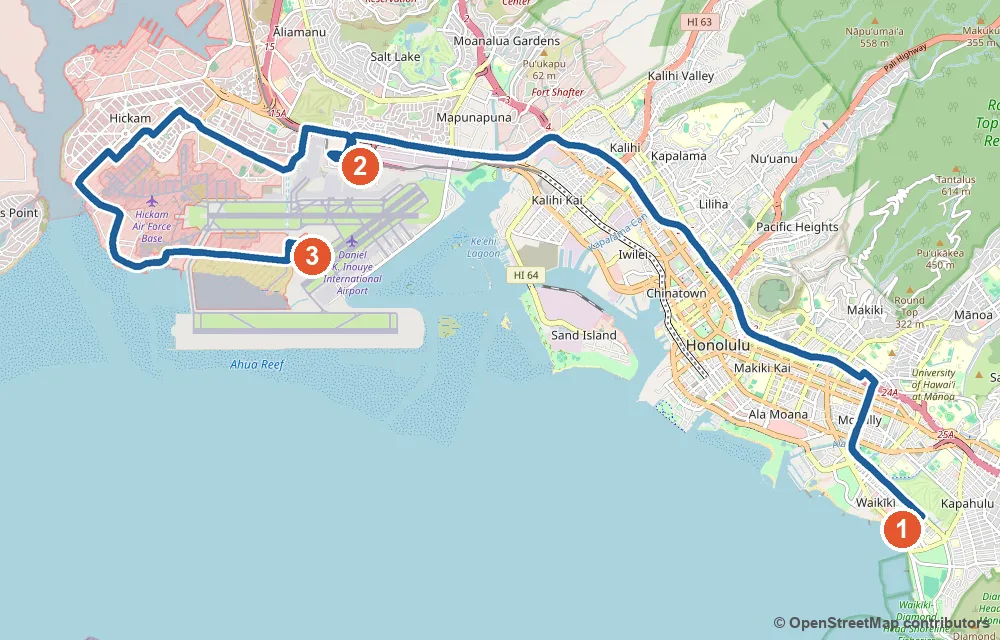
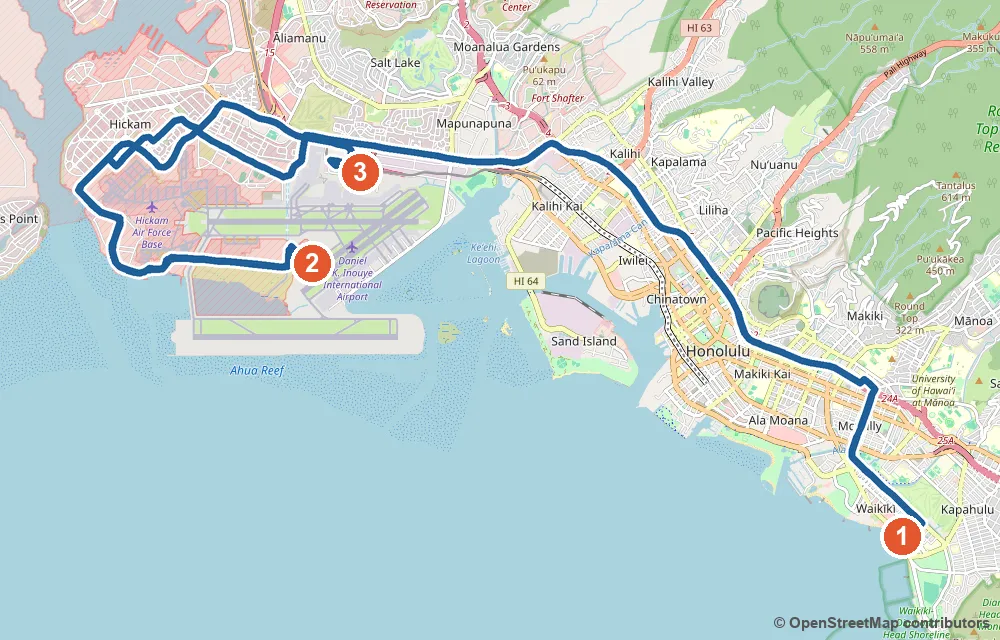
11/11 08:30 출발 · 09:00 공항 · 작은형 렌트카 반납

diff --git a/index.html b/index.html
@@ -12,7 +12,7 @@
 // GitHub Pages 는 HTML 을 10분 캐시한다(헤더는 못 바꿈) → 열 때마다 version.json 을 캐시 없이 확인해
 // 새 버전이면 주소에 ?v=버전 을 붙여 한 번만 새로 불러온다 (같은 버전으로 이미 시도했으면 멈춤)
 (function () {
-  var BUILD = 'f8a1b704cf';
+  var BUILD = 'd4a4f7217a';
   try {
     fetch('version.json?t=' + Date.now(), { cache: 'no-store' })
       .then(function (r) { return r.ok ? r.json() : null; })
@@ -343,18 +343,18 @@ footer { max-width: 1100px; margin: 0 auto; padding: 0 16px 48px; color: var(--m
 <div class="todo-grid"><div class="todo"><span class="when">예약 ✅ <strong>완료 (11/8)</strong></span><h4>🥾 다이아몬드헤드 <strong>재예약</strong></h4><div class="visit">📅 <span>가는 날</span> <strong>11/9 (월) 12:00 입장 · 차량+3명 (아빠·작은형·나)</strong> — 비거주자 1인 $5 + 차량 $10 · QR 캡처</div><div class="where"><a href="https://gostateparks.hawaii.gov/diamondhead" target="_blank" rel="noopener">gostateparks.hawaii.gov/diamondhead</a></div><div class="memo">주차 2시간 (14시 전 출차) · 30분 넘게 늦으면 입장 불가</div></div><div class="todo"><span class="when">예약 ✅ <strong>다녀옴 (11/7)</strong></span><h4>⛳ <strong>골프 (큰형·나)</strong></h4><div class="visit">📅 <span>가는 날</span> 12:34~17:30 18홀 완주 — 복귀는 작은형 픽업</div><div class="where"><a href="https://golfnow.com" target="_blank" rel="noopener">golfnow.com</a></div><div class="memo">렌탈 2세트는 <strong>메리어트 1층 샵</strong>에서 아침 수령 (오픈 시간·요금·반납 조건 확인) · 복장 ✅ (폴로는 큰형 것 · 청바지 ❌)</div></div><div class="todo"><span class="when">예약 ✅ <strong>예약 완료 (작은형)</strong></span><h4><strong>USS Arizona</strong> (진주만)</h4><div class="visit">📅 <span>가는 날</span> <strong>11/5 (목) 10:45 투어</strong> · 5명</div><div class="where"><a href="https://recreation.gov" target="_blank" rel="noopener">recreation.gov</a></div><div class="memo"><strong>09:45까지 방문자센터 도착</strong> (공식: 1시간 전) · 극장 체크인 10:45의 10~15분 전 · 가방 반입 금지 (지갑·폰·물병만) · 주차 $7</div></div><div class="todo"><span class="when">예약 지금</span><h4>저녁 예약 (5명)</h4><div class="visit">📅 <span>가는 날</span> <del>11/4 DECK.</del> (❌ 취소 — 마루가메 우동으로) · <del>11/6 Hau Tree</del> (❌ 48시간 내 취소·변경 수수료 $15/인 → 워크인으로) · 🍚 <strong>Suntory</strong> ✅ <strong>다녀옴 (11/7 — 19:30 입장 · 단품 와슈규 샤브 $60/인)</strong></div><div class="where">전화·OpenTable</div><div class="memo">✅ 11/5 Arancino 다녀옴 (맛있었어요) · 11/6 🍺 <strong>Yard House</strong>(19:00 도착·이름 올리기)·11/9 🐟 <strong>Nico's Pier 38</strong>은 <strong>예약 없이</strong> 바로 가요</div></div><div class="todo"><span class="when">예약 ❌ <strong>취소 (11/7 밤)</strong></span><h4>아침 예약 (5명)</h4><div class="visit">📅 <span>가는 날</span> 다들 아침은 <strong>콘도에서</strong> — Duke's 11/8 · Heavenly 11/10 예약 안 함</div><div class="where">—</div><div class="memo">아침거리는 11/8 귀갓길 <strong>H Mart 카카아코</strong> 장보기 · 나가고 싶은 날 도보 대안: Lulu's·Barefoot·Kai Coffee</div></div><div class="todo"><span class="when">예약 ✅ <strong>예약 완료 (11/8 · OpenTable)</strong></span><h4>🌅 SKY Waikiki (4명)</h4><div class="visit">📅 <span>가는 날</span> <strong>11/9 (월) 17:00 · 4명</strong> (아빠·엄마·큰형·나) — 19층 옥상 노을 저녁 · 요청사항에 "노을 잘 보이는 바깥쪽 자리, 없으면 연락" 남김</div><div class="where">OpenTable · ☎ 808-900-4240</div><div class="memo">확인 메일 저장</div></div><div class="todo"><span class="when">예약 ✅ <strong>PCC 결제 완료 (11/9)</strong></span><h4>🔥 불쇼 (5명)</h4><div class="visit">📅 <span>가는 날</span> <strong>11/10 PCC <code>Gateway Buffet Package</code>로 잠정</strong> (마을 + 뷔페 + HĀ 실버석 · <strong>$138.95/인</strong> (무료 저녁 행사가 · 정가 $157.95 · <strong>polynesia.com/free-dinner</strong> 에서 예약) · 5명 약 $727) — 월요일 Ka Moana는 뺌</div><div class="where"><a href="https://polynesia.com/free-dinner" target="_blank" rel="noopener">polynesia.com/free-dinner</a></div><div class="memo">무료 취소 <strong>11/9 17시 HST까지</strong> → 아침에 정하고 바로 예약</div></div><div class="todo"><span class="when">예약 ✅ <strong>결제 완료 (11/9) — 확인 메일 확인</strong></span><h4>PCC 패키지 (5명)</h4><div class="visit">📅 <span>가는 날</span> <strong>11/10 (화)</strong> 12:15 도착 · <strong><code>Gateway Buffet Package</code> 잠정</strong> · 패키지 (성인 1인, 세금 별도): Super Ambassador $293.95 · Aliʻi Lūʻau $197.95 (그룹 가이드+루아우+골드석) · <strong>Gateway Buffet $157.95</strong> (자유 관람+뷔페+실버석) · Lūʻau &amp; HĀ $138.95 (마을 없음) · Islands + HĀ $123.95 (브론즈석·저녁 없음) · Islands만 $94.95 · 직접 조합은 3개 34%·2개 27% 할인 (예: 마을+루아우+실버 약 $175)</div><div class="where"><a href="https://pkg.polynesia.com" target="_blank" rel="noopener">pkg.polynesia.com</a></div><div class="memo"><strong>무료 취소 11/9 17:00 HST까지</strong> (공식 FAQ) · 이후·노쇼 환불 없음 · 체크인: 사진 신분증 + 결제 카드 + 확인 메일 · 일·수 휴무 · 왕복 버스 $28/인</div></div></div>
 
 </section><section class="sec flight"><div class="sec-head"><span class="sec-ic">✈</span><h2 id="항공-서울팀-3명-현지-시각">항공</h2><small>서울팀 3명 (현지 시각)</small></div>
-<div class="tickets"><div class="ticket"><div class="tk-top"><span>가는 편</span><b>KE053</b></div><div class="route"><div class="city"><small>11/4 (수)</small><b>20:50</b><span>ICN · 인천 T2</span></div><div class="plane">✈</div><div class="city r"><small>11/4 (수)</small><b>09:40</b><span>HNL · 호놀룰루</span></div></div><div class="tk-meta"><div><span>공항 도착 목표</span><b>17:50</b></div><div><span>체크인 마감</span><b>19:50</b></div><div><span>탑승 시작</span><b>20:15</b></div></div></div><div class="ticket"><div class="tk-top"><span>오는 편</span><b>KE054</b></div><div class="route"><div class="city"><small>11/11 (수)</small><b>12:05</b><span>HNL · 호놀룰루</span></div><div class="plane">✈</div><div class="city r"><small>11/12 (목)</small><b>17:35</b><span>ICN · 인천 T2</span></div></div><div class="tk-meta"><div><span>공항 도착 목표</span><b>08:20</b></div><div><span>체크인 마감</span><b>출발 1시간 전</b></div><div><span>탑승 시작</span><b>11:30</b></div></div></div></div>
+<div class="tickets"><div class="ticket"><div class="tk-top"><span>가는 편</span><b>KE053</b></div><div class="route"><div class="city"><small>11/4 (수)</small><b>20:50</b><span>ICN · 인천 T2</span></div><div class="plane">✈</div><div class="city r"><small>11/4 (수)</small><b>09:40</b><span>HNL · 호놀룰루</span></div></div><div class="tk-meta"><div><span>공항 도착 목표</span><b>17:50</b></div><div><span>체크인 마감</span><b>19:50</b></div><div><span>탑승 시작</span><b>20:15</b></div></div></div><div class="ticket"><div class="tk-top"><span>오는 편</span><b>KE054</b></div><div class="route"><div class="city"><small>11/11 (수)</small><b>12:05</b><span>HNL · 호놀룰루</span></div><div class="plane">✈</div><div class="city r"><small>11/12 (목)</small><b>17:35</b><span>ICN · 인천 T2</span></div></div><div class="tk-meta"><div><span>공항 도착 목표</span><b>09:00</b></div><div><span>체크인 마감</span><b>출발 1시간 전</b></div><div><span>탑승 시작</span><b>11:30</b></div></div></div></div>
 <ul>
 <li>탑승 시작 = 출발 35분 전 · 탑승구 마감 = 10분 전 · 체크인 마감 = 1시간 전 (대한항공 국제선)</li>
 <li>🛍 출국심사 후 바로 <strong>T2 서편 인도장</strong>에서 면세품 받기 (여권·탑승권, 저녁엔 줄 김 → 20~30분 여유)</li>
-<li>귀국일은 콘도 07:30 출발 → 08:00 렌트카 반납 (위치는 예약 확인서 · 공항 렌터카센터면 T2 길 건너) → 08:20 카운터</li>
+<li>귀국일은 콘도 08:30 출발 → 09:00 T2 출발층에서 가족 내리기 → 작은형 혼자 주유·렌트카 반납 (위치는 예약 확인서 · 공항 렌터카센터면 T2 길 건너) · 작은형은 비행이 더 늦어요</li>
 <li>✅ KE053은 11/3 대한항공 공지로 <strong>20:35 → 20:50</strong> 출발 · <strong>09:40</strong> 도착으로 변경 확정</li>
-<li>ℹ KE054는 <strong>11:40</strong> 출발로 나오기도 해요 — 귀국일 계획(08:20 카운터)은 11:40이어도 3시간 이상 여유</li>
+<li>ℹ KE054는 <strong>11:40</strong> 출발로 나오기도 해요 — 귀국일 계획(09:00 공항)은 11:40이어도 2시간 40분 여유 · 전날 대한항공 앱에서 출발 시각 확인</li>
 </ul>
 </section><section class="sec hotel"><div class="sec-head"><span class="sec-ic">🏨</span><h2 id="숙소-메리어트-3박-비치타워-콘도-4박-걸어서-3분">숙소</h2><small>메리어트 3박 · 비치타워 콘도 4박 (걸어서 3분)</small></div>
 <div class="tickets"><div class="hotel"><div class="tk-top"><span>11/4 (수) – 11/7 (토) · 3박 · 아고다</span></div><div class="ht-name">와이키키 비치 메리어트 리조트 &amp; 스파</div><div class="ht-times"><div><span>체크인</span><b>15:00</b><small>11/4 (수)</small></div><div><span>체크아웃</span><b>11:00</b><small>11/7 (토)</small></div></div><dl class="ht-facts"><dt>☎ 전화</dt><dd><ul class="ht-fac"><li>한국에서 <strong>001-1-808-922-6611</strong> (KT 001 · LG U+ 002 · SK 00700)</li><li>휴대폰은 <strong><a href="tel:+18089226611">+1 808 922 6611</a></strong> (누르면 바로 걸려요)</li><li>프런트 24시간 · 하와이는 한국보다 19시간 늦어요</li></ul></dd><dt>🛏 방</dt><dd><strong>객실 2개 예약 확정</strong> — 방 1: 시티뷰 퀸 1 또는 더블 2 (성인 2) · 방 2: 와이키키 시티뷰 킹 1 + 소파베드, 발코니 (성인 3) — <strong>침대는 킹 1 + 소파베드뿐</strong> (추가 침대·침대 2개 방 변경 안 됨, 11/3 확인)</dd><dt>🚿 욕실</dt><dd>객실마다 1개</dd><dt>🍳 조식</dt><dd><strong>방마다 성인 2명 포함</strong> (전화 확인 11/3) — 2번 방 세 번째 사람은 <strong>추가 요금</strong> · 2층 Kuhio Beach Grill 뷔페 (05:00–11:00)</dd><dt>🅿 주차</dt><dd><strong>호텔 셀프 주차</strong> $65/일 · 발렛 $80/일 (세금 별도 · 셀프 3박 약 $204) — 근처 반얀 주차장은 24시간 $50 (공사 중 요금 · 높이 183cm 제한)이라 하루 $15 정도 차이 · ⚠ 후기: 셀프 주차장이 좁고 자주 꽉 차서 발렛으로 돌린 일, SUV가 높아 못 들어가 발렛 쓴 일 있음 (2024~2026) · <strong>미리 예약 필요 없음</strong> (11/3 호텔 확인)</dd><dt>🏝 시설</dt><dd><ul class="ht-fac"><li>🏊 <strong>수영장 2개</strong> — 옥상 Queensbreak에 가족 풀 + 21세 이상 성인 풀, 온수 욕조 (07:00–22:00)</li><li>🍽 <strong>식당·바·카페 7곳</strong> — Kuhio Beach Grill (조식 뷔페 05–11, 2층) · Arancino di Mare (이탈리안 저녁 17–21) · Queensbreak 레스토랑·풀사이드 바 (옥상 11–23) · 스타벅스 2곳 · Island Vintage 셰이브아이스 — Sansei·DK Steakhouse는 2025.9 폐업</li><li>🛒 <strong>ABC 스토어</strong> (로비층 편의점)</li><li>🧺 <strong>셀프 세탁실</strong> (Paoakalani 타워 2층) — 세탁·건조 각 $6.50 (2026.5 투숙 후기), 카드 결제 · 드라이클리닝 서비스 별도</li><li>💆 Royal Kaila 스파 (09–18) · 피트니스 24시간</li><li>🌺 우쿨렐레·훌라·레이 만들기 수업 (리조트피 포함)</li><li>🎭 Paina Waikiki 루아우 디너쇼 (월·수·금·토·일, 별도 예약)</li><li>🗣 일본어 직원 있음 · 한국어 직원 없음 (11/3 전화 확인)</li></ul></dd></dl><ul class="ht-notes"><li>11/4 체크인 전·11/7 체크아웃 뒤 <strong>벨데스크 짐 보관</strong></li><li>리조트피 객실당 1박 $59 + 세금 (약 $70, 현장 결제 — Wi-Fi·비치체어 또는 부기보드·문화 수업 포함)</li><li>체크인은 예약자 본인 여권 + 실물 카드</li></ul></div><div class="hotel"><div class="tk-top"><span>11/7 (토) – 11/11 (수) · 4박</span></div><div class="ht-name">와이키키 비치 타워 콘도 (에어비앤비)</div><div class="ht-times"><div><span>체크인</span><b>15:00</b><small>11/7 (토)</small></div><div><span>체크아웃</span><b>11:00</b><small>11/11 (수)</small></div></div><dl class="ht-facts"><dt>☎ 전화</dt><dd><ul class="ht-fac"><li>관리 회사(캡틴 쿡 리조트)는 <strong>에어비앤비 앱 메시지</strong></li><li>관리자 전화번호는 11/5 15:00(하와이)부터 앱의 입실 안내에 나와요</li></ul></dd><dt>🛏 방</dt><dd><strong>침실 2개</strong> — 안방 킹 1 · 게스트룸 트윈 2 (요청 시 킹 1) · 거실 퀸 소파베드 · 최대 6명 · 실내 약 107㎡ + 오션뷰 발코니</dd><dt>🚿 욕실</dt><dd><strong>2개</strong> (안방 전용 1 + 공용 1)</dd><dt>🍳 조식</dt><dd>없음 — 주방 완비, 아침은 장봐서</dd><dt>🅿 주차</dt><dd><strong>발렛 1대 무료</strong> (차 높이 188cm까지, 셔틀 크기 밴 불가) · 차량 사전 등록 필요 없음 · 머무는 동안만 · 리조트피 없음</dd><dt>🏝 시설</dt><dd><ul class="ht-fac"><li>🧺 집 안 <strong>세탁기·건조기</strong> (무료)</li><li>🏊 건물 수영장·스파·피트니스</li><li>🍳 주방 완비</li></ul></dd></dl><ul class="ht-notes"><li>체크인·체크아웃 시각은 <strong>에어비앤비 예약·호스트 안내 기준</strong></li><li>도착 후 <strong>관리자에게 전화</strong>해서 체크인</li><li>매일 청소·수건 보충 없음</li><li>커피·조미료·식용유·지퍼백 없음</li></ul></div></div>
 </section><section class="sec overview"><div class="sec-head"><span class="sec-ic">🗓</span><h2 id="1-한눈에-보기">한눈에 보기</h2></div>
-<div class="ov-grid"><a class="ov c0" href="#114-수-도착-짐부터-호텔에-가볍게"><div class="ov-head"><b>11/4</b><em>수</em><span>도착</span></div><ul><li><i>🛍</i>월마트 / 돈키호테 (장보기)</li><li><i>🍳</i>기내</li><li><i>🍱</i>Highway Inn 카카아코</li><li><i>🍽</i>🌅 DECK. 일몰 (17:30)</li></ul></a><a class="ov c1" href="#115-목-진주만-와이켈레-아울렛"><div class="ov-head"><b>11/5</b><em>목</em><span>진주만</span></div><ul><li><i>🛍</i><strong>와이켈레 아울렛</strong></li><li><i>🍳</i>메리어트 조식</li><li><i>🍱</i>Restaurant 604</li><li><i>🍽</i>🍝 Arancino (호텔 1층)</li></ul></a><a class="ov c2" href="#116-금-동부-해안-카일루아-해안-먼저-저녁은-카일루아"><div class="ov-head"><b>11/6</b><em>금</em><span>동부 해안</span></div><ul><li><i>🥾</i><strong>마카푸우 등대</strong> · (선택, 아들) 라니카이 필박스</li><li><i>🛍</i><strong>카일루아</strong> 마노아 초콜릿·Whole Foods·타운</li><li><i>🍳</i>메리어트 조식</li><li><i>🍱</i>Kalapawai Café</li><li><i>🍽</i>🍺 <strong>Yard House</strong> (워크인 · 비치워크)</li></ul></a><a class="ov c3" href="#117-토-체크아웃-와이켈레-골프-큰형나-교회-작은형부모님-비치타워-체크인"><div class="ov-head"><b>11/7</b><em>토</em><span>이동일</span></div><ul><li><i>🥾</i>⛳ <strong>와이켈레 골프 12:34</strong> (큰형·나) · <del>다이아몬드헤드</del> ❌</li><li><i>🛍</i>⛪ 교회 10~14 (작은형·부모님) · 🧳 체크아웃 → 비치타워 체크인 15:00</li><li><i>🍳</i>메리어트 조식</li><li><i>🍱</i>각자 (골프장 스낵바 · 교회)</li><li><i>🍽</i>🍚 <strong>Suntory</strong> ✅ 다녀옴 (단품 샤브)</li></ul></a><a class="ov c4" href="#118-일-아침-수영-핑크-필박스-해변-커피-요코하마-베이-코올리나-저녁-h-mart"><div class="ov-head"><b>11/8</b><em>일</em><span>서부 (비 0%) · 11:30 출발</span></div><ul><li><i>🥾</i>🏊 아침 와이키키 수영 · 🥾 <strong>핑크 필박스 (낮)</strong> · 93번 서쪽 해안 (요코하마 베이)</li><li><i>🛍</i>🛒 H Mart (귀갓길)</li><li><i>🍳</i>🍔 각자 (맥도날드 등)</li><li><i>🍱</i>☕ Surf &amp; Sprout 요기</li><li><i>🍽</i>Monkeypod 코올리나</li></ul></a><a class="ov c5" href="#119-월-와이키키-수영-다이아몬드헤드-콘도-휴식-sky-waikiki-노을-저녁"><div class="ov-head"><b>11/9</b><em>월</em><span>와이키키 수영 + 다이아몬드헤드</span></div><ul><li><i>🥾</i>🏊 <strong>와이키키 해변 수영</strong> · <strong>다이아몬드헤드 12:00 (✅ 3명)</strong></li><li><i>🍳</i>🏠 콘도 아침</li><li><i>🍱</i>🏠 콘도 (늦은 점심)</li><li><i>🍽</i>🌅 <strong>SKY Waikiki</strong> (19층 노을)</li></ul></a><a class="ov c6" href="#1110-화-돌-플랜테이션-거북이-해변-giovannis-폴리네시안-문화센터-pcc"><div class="ov-head"><b>11/10</b><em>화</em><span>노스쇼어 + PCC</span></div><ul><li><i>🥾</i>🍍 돌 플랜테이션 · 🐢 거북이 해변 · <strong>PCC</strong> (마을 · 저녁 · 불쇼)</li><li><i>🍳</i>🏠 콘도 아침</li><li><i>🍱</i>🍤 Giovanni's 카후쿠</li><li><i>🍽</i>PCC 게이트웨이 뷔페</li></ul></a><a class="ov c7" href="#1111-수-출발-veterans-day-공휴일"><div class="ov-head"><b>11/11</b><em>수</em><span>출발</span></div><ul><li><i>🍳</i>🏠 콘도 간단히 · 무스비 포장</li><li><i>🍱</i>기내</li></ul></a></div>
+<div class="ov-grid"><a class="ov c0" href="#114-수-도착-짐부터-호텔에-가볍게"><div class="ov-head"><b>11/4</b><em>수</em><span>도착</span></div><ul><li><i>🛍</i>월마트 / 돈키호테 (장보기)</li><li><i>🍳</i>기내</li><li><i>🍱</i>Highway Inn 카카아코</li><li><i>🍽</i>🌅 DECK. 일몰 (17:30)</li></ul></a><a class="ov c1" href="#115-목-진주만-와이켈레-아울렛"><div class="ov-head"><b>11/5</b><em>목</em><span>진주만</span></div><ul><li><i>🛍</i><strong>와이켈레 아울렛</strong></li><li><i>🍳</i>메리어트 조식</li><li><i>🍱</i>Restaurant 604</li><li><i>🍽</i>🍝 Arancino (호텔 1층)</li></ul></a><a class="ov c2" href="#116-금-동부-해안-카일루아-해안-먼저-저녁은-카일루아"><div class="ov-head"><b>11/6</b><em>금</em><span>동부 해안</span></div><ul><li><i>🥾</i><strong>마카푸우 등대</strong> · (선택, 아들) 라니카이 필박스</li><li><i>🛍</i><strong>카일루아</strong> 마노아 초콜릿·Whole Foods·타운</li><li><i>🍳</i>메리어트 조식</li><li><i>🍱</i>Kalapawai Café</li><li><i>🍽</i>🍺 <strong>Yard House</strong> (워크인 · 비치워크)</li></ul></a><a class="ov c3" href="#117-토-체크아웃-와이켈레-골프-큰형나-교회-작은형부모님-비치타워-체크인"><div class="ov-head"><b>11/7</b><em>토</em><span>이동일</span></div><ul><li><i>🥾</i>⛳ <strong>와이켈레 골프 12:34</strong> (큰형·나) · <del>다이아몬드헤드</del> ❌</li><li><i>🛍</i>⛪ 교회 10~14 (작은형·부모님) · 🧳 체크아웃 → 비치타워 체크인 15:00</li><li><i>🍳</i>메리어트 조식</li><li><i>🍱</i>각자 (골프장 스낵바 · 교회)</li><li><i>🍽</i>🍚 <strong>Suntory</strong> ✅ 다녀옴 (단품 샤브)</li></ul></a><a class="ov c4" href="#118-일-아침-수영-핑크-필박스-해변-커피-요코하마-베이-코올리나-저녁-h-mart"><div class="ov-head"><b>11/8</b><em>일</em><span>서부 (비 0%) · 11:30 출발</span></div><ul><li><i>🥾</i>🏊 아침 와이키키 수영 · 🥾 <strong>핑크 필박스 (낮)</strong> · 93번 서쪽 해안 (요코하마 베이)</li><li><i>🛍</i>🛒 H Mart (귀갓길)</li><li><i>🍳</i>🍔 각자 (맥도날드 등)</li><li><i>🍱</i>☕ Surf &amp; Sprout 요기</li><li><i>🍽</i>Monkeypod 코올리나</li></ul></a><a class="ov c5" href="#119-월-와이키키-수영-다이아몬드헤드-콘도-휴식-sky-waikiki-노을-저녁"><div class="ov-head"><b>11/9</b><em>월</em><span>와이키키 수영 + 다이아몬드헤드</span></div><ul><li><i>🥾</i>🏊 <strong>와이키키 해변 수영</strong> · <strong>다이아몬드헤드 12:00 (✅ 3명)</strong></li><li><i>🍳</i>🏠 콘도 아침</li><li><i>🍱</i>🏠 콘도 (늦은 점심)</li><li><i>🍽</i>🌅 <strong>SKY Waikiki</strong> (19층 노을)</li></ul></a><a class="ov c6" href="#1110-화-돌-플랜테이션-거북이-해변-giovannis-폴리네시안-문화센터-pcc"><div class="ov-head"><b>11/10</b><em>화</em><span>노스쇼어 + PCC</span></div><ul><li><i>🥾</i>🍍 돌 플랜테이션 · 🐢 거북이 해변 · <strong>PCC</strong> (마을 · 저녁 · 불쇼)</li><li><i>🍳</i>🏠 콘도 아침</li><li><i>🍱</i>🍤 Giovanni's 카후쿠</li><li><i>🍽</i>PCC 게이트웨이 뷔페</li></ul></a><a class="ov c7" href="#1111-수-출발-veterans-day-공휴일"><div class="ov-head"><b>11/11</b><em>수</em><span>출발 · 08:30 콘도 → 09:00 공항</span></div><ul><li><i>🍳</i>🏠 콘도 간단히 · 무스비 포장</li><li><i>🍱</i>기내</li></ul></a></div>
 
 </section><section class="sec days"><div class="sec-head"><span class="sec-ic">📍</span><h2 id="2-날짜별-상세-시간-장소-주차">날짜별 상세</h2><small>시간 · 장소 · 주차</small></div>
 <blockquote>
@@ -364,7 +364,7 @@ footer { max-width: 1100px; margin: 0 auto; padding: 0 16px 48px; color: var(--m
 </blockquote>
 <article class="day c1" data-date="11/9"><div class="day-head"><div class="date-badge"><b>11/9</b><span>월요일</span></div><div class="day-title"><h3 id="119-월-와이키키-수영-다이아몬드헤드-콘도-휴식-sky-waikiki-노을-저녁">🏊 와이키키 수영 → 🥾 다이아몬드헤드 → 🏠 콘도 휴식 → 🌅 SKY Waikiki 노을 저녁</h3></div></div><div class="day-body">
 <p class="wx">🌦 와이키키 ☔ <strong>08시 47% → 09시 31% → 10시 14% → 11시 2%</strong> — 아침 소나기가 오다 갬 (시간당 0.1~0.2mm) · 다이아몬드헤드 ☔ <strong>12~13시 0%</strong> · 🌡 27°C · ☀ 자외선 6 (한낮 · 그늘 거의 없음) / 저녁 ☔ <strong>0%</strong> · 구름 15~30% · 🌅 <strong>일몰 17:51</strong> · 23~26°C · 19층 옥상은 바람이 세서 <strong>얇은 겉옷</strong> · 💨 돌풍 14~17m <em>(11/8 13시 갱신)</em></p>
-<figure class="routemap"><img src="maps/1109.webp?v=4a6d15208e" loading="lazy" width="1000" height="640" alt="11/9 지도"><figcaption><div class="rm-stops"><b>①</b> 비치타워 콘도 → <b>②</b> 다이아몬드헤드 → <b>③</b> 비치타워 콘도 → <b>④</b> SKY Waikiki → <b>⑤</b> 비치타워 콘도</div><div class="rm-meta">🚗 하루 운전 약 9km · 막히지 않으면 약 24분 · 파란 선 = 차 · 초록 선 = 걷기</div><div class="rm-links">🧭 구글 지도 길찾기 <a href="https://www.google.com/maps/dir/?api=1&amp;origin=Waikiki+Beach+Tower+2470+Kalakaua+Ave+Honolulu&amp;destination=Waikiki+Beach+Tower+2470+Kalakaua+Ave+Honolulu&amp;travelmode=driving&amp;waypoints=Diamond+Head+State+Monument" target="_blank" rel="noopener">①→③</a><a href="https://www.google.com/maps/dir/?api=1&amp;origin=Waikiki+Beach+Tower+2470+Kalakaua+Ave+Honolulu&amp;destination=Waikiki+Beach+Tower+2470+Kalakaua+Ave+Honolulu&amp;travelmode=walking&amp;waypoints=SKY+Waikiki+2270+Kalakaua+Ave+Honolulu" target="_blank" rel="noopener">🚶 ③→⑤</a></div></figcaption></figure><div class="gallery"><figure><a href="https://commons.wikimedia.org/wiki/File:Diamond_Head_Hawaii_From_Round_Top_Rd.JPG" target="_blank" rel="noopener"><img src="https://thumb.wikimedia.org/wikipedia/commons/thumb/9/93/Diamond_Head_Hawaii_From_Round_Top_Rd.JPG/960px-Diamond_Head_Hawaii_From_Round_Top_Rd.JPG?utm_source=commons.wikimedia.org&utm_campaign=imageinfo&utm_content=thumbnail" alt="다이아몬드헤드" loading="lazy" decoding="async"></a><figcaption><b>다이아몬드헤드</b><small>© mar1865 · CC BY-SA 3.0</small></figcaption></figure><figure><a href="https://commons.wikimedia.org/wiki/File:City_of_Waikiki_view.jpg" target="_blank" rel="noopener"><img src="https://thumb.wikimedia.org/wikipedia/commons/thumb/f/fd/City_of_Waikiki_view.jpg/960px-City_of_Waikiki_view.jpg?utm_source=commons.wikimedia.org&utm_campaign=imageinfo&utm_content=thumbnail" alt="와이키키 해변 — 아침 수영" loading="lazy" decoding="async"></a><figcaption><b>와이키키 해변 — 아침 수영</b><small>© Pickle the cool · CC BY-SA 4.0</small></figcaption></figure><figure><a href="https://commons.wikimedia.org/wiki/File:Sunset_next_to_Waikiki_Beach,_Oahu,_Hawai,_USA1.jpg" target="_blank" rel="noopener"><img src="https://thumb.wikimedia.org/wikipedia/commons/thumb/8/85/Sunset_next_to_Waikiki_Beach%2C_Oahu%2C_Hawai%2C_USA1.jpg/960px-Sunset_next_to_Waikiki_Beach%2C_Oahu%2C_Hawai%2C_USA1.jpg?utm_source=commons.wikimedia.org&utm_campaign=imageinfo&utm_content=thumbnail" alt="와이키키 노을 — SKY Waikiki 저녁" loading="lazy" decoding="async"></a><figcaption><b>와이키키 노을 — SKY Waikiki 저녁</b><small>© Diego Delso · CC BY-SA 3.0</small></figcaption></figure></div><ol class="tl"><li><div class="t">08:00–08:45</div><div class="c"><div class="place">🏠 <strong>콘도 아침</strong> (5명)</div><div class="what">전날 H Mart 장본 걸로</div></div></li><li><div class="t">08:45–11:00</div><div class="c"><div class="place">🏊 <a href="https://www.google.com/maps/search/?api=1&query=Kuhio+Beach+Park+Honolulu" target="_blank" rel="noopener"><strong>와이키키 해변 수영</strong></a> (콘도 앞)</div><div class="what">아침 소나기는 10시면 거의 그쳐요 · 라이프가드 있는 구역에서 · <strong>트레일 팀은 10:40쯤 나와 샤워·운동화</strong> (11:15 출발) · 엄마·큰형은 더 놀아도 OK</div></div></li><li><div class="t">11:00</div><div class="c"><div class="place">📞 발렛에 차 요청</div><div class="what">11:15에 받기 · <strong>물 1인 1L · 모자 · 간식</strong> (아침 뒤 점심 전이라)</div><div class="park">🅿 발렛</div></div></li><li><div class="t">11:15</div><div class="c"><div class="place">출발 — 아빠·작은형·나 (차 10분)</div><div class="what">예약 시간(12:00) 전엔 입구에서 기다릴 수 있어요</div></div></li><li><div class="t">12:00–13:45</div><div class="c"><div class="place">🥾 <a href="https://www.google.com/maps/search/?api=1&query=Diamond+Head+State+Monument" target="_blank" rel="noopener"><strong>다이아몬드헤드</strong></a> ✅ <strong>예약 완료 (12:00 · 차량+3명)</strong></div><div class="what"><strong>QR 캡처</strong> · <strong>30분 넘게 늦으면 입장 불가</strong> · 왕복 약 1시간 30분, 마지막은 계단 · 한낮 27°C · 자외선 6 · 비 0% → <strong>물·모자</strong></div><div class="park">🅿 QR 주차 (<strong>2시간 — 14시 전 출차</strong>)</div></div></li><li><div class="t">14:00–</div><div class="c"><div class="place">🏠 <strong>콘도 — 늦은 점심 · 휴식 · 🧳 짐 싸기</strong></div><div class="what">점심은 가볍게 · <strong>짐은 오늘 싸 둬요</strong> (11/10은 PCC로 하루 종일, 11/11 07:30 출발) · 엄마·큰형은 오전 수영 뒤 계속 콘도</div><div class="park">🅿 발렛</div></div></li><li><div class="t">16:45</div><div class="c"><div class="place">콘도 출발 — 걸어서 7분 (우버 3분)</div><div class="what"><strong>4명 (아빠·엄마·큰형·나)</strong> · 작은형은 저녁 약속 · 젖은 수영복·비키니 차림은 입장 불가</div></div></li><li><div class="t">17:00–19:00</div><div class="c"><div class="place">🌅 <a href="https://www.google.com/maps/search/?api=1&query=SKY+Waikiki+2270+Kalakaua+Ave+Honolulu" target="_blank" rel="noopener"><strong>SKY Waikiki</strong></a> (2270 Kalākaua Ave · 와이키키 비즈니스 플라자 <strong>19층 옥상</strong> · 월 16–24시)</div><div class="what"><strong>노을 저녁</strong> — 🌅 일몰 17:51 · 다이아몬드헤드·바다·야경 · <strong>해피아워 16–18시</strong> (굴 $4 · 맥주 $5 · 스파클링 $10) · 🍴 <strong>Seafood Platter $120 (3~4인 · 굴 6·점보 새우 4·랍스터 꼬리·포케 2) + 추토로 $32 또는 킹연어 미소야키 $38 + 트러플 감자튀김 $18</strong> · 스테이크 원하면 안심 8oz $55 · 4명 약 $260~370 (세금·팁 포함) · ✅ <strong>예약 완료 — 17:00 · 4명</strong> (OpenTable · 노을 쪽 자리 요청 남김 · ☎ 808-900-4240)</div><div class="park">🅿 우버면 불필요</div></div></li><li><div class="t">19:15</div><div class="c"><div class="place">🏠 콘도 복귀 (걸어서 7분)</div></div></li></ol>
+<figure class="routemap"><img src="maps/1109.webp?v=4a6d15208e" loading="lazy" width="1000" height="640" alt="11/9 지도"><figcaption><div class="rm-stops"><b>①</b> 비치타워 콘도 → <b>②</b> 다이아몬드헤드 → <b>③</b> 비치타워 콘도 → <b>④</b> SKY Waikiki → <b>⑤</b> 비치타워 콘도</div><div class="rm-meta">🚗 하루 운전 약 9km · 막히지 않으면 약 24분 · 파란 선 = 차 · 초록 선 = 걷기</div><div class="rm-links">🧭 구글 지도 길찾기 <a href="https://www.google.com/maps/dir/?api=1&amp;origin=Waikiki+Beach+Tower+2470+Kalakaua+Ave+Honolulu&amp;destination=Waikiki+Beach+Tower+2470+Kalakaua+Ave+Honolulu&amp;travelmode=driving&amp;waypoints=Diamond+Head+State+Monument" target="_blank" rel="noopener">①→③</a><a href="https://www.google.com/maps/dir/?api=1&amp;origin=Waikiki+Beach+Tower+2470+Kalakaua+Ave+Honolulu&amp;destination=Waikiki+Beach+Tower+2470+Kalakaua+Ave+Honolulu&amp;travelmode=walking&amp;waypoints=SKY+Waikiki+2270+Kalakaua+Ave+Honolulu" target="_blank" rel="noopener">🚶 ③→⑤</a></div></figcaption></figure><div class="gallery"><figure><a href="https://commons.wikimedia.org/wiki/File:Diamond_Head_Hawaii_From_Round_Top_Rd.JPG" target="_blank" rel="noopener"><img src="https://thumb.wikimedia.org/wikipedia/commons/thumb/9/93/Diamond_Head_Hawaii_From_Round_Top_Rd.JPG/960px-Diamond_Head_Hawaii_From_Round_Top_Rd.JPG?utm_source=commons.wikimedia.org&utm_campaign=imageinfo&utm_content=thumbnail" alt="다이아몬드헤드" loading="lazy" decoding="async"></a><figcaption><b>다이아몬드헤드</b><small>© mar1865 · CC BY-SA 3.0</small></figcaption></figure><figure><a href="https://commons.wikimedia.org/wiki/File:City_of_Waikiki_view.jpg" target="_blank" rel="noopener"><img src="https://thumb.wikimedia.org/wikipedia/commons/thumb/f/fd/City_of_Waikiki_view.jpg/960px-City_of_Waikiki_view.jpg?utm_source=commons.wikimedia.org&utm_campaign=imageinfo&utm_content=thumbnail" alt="와이키키 해변 — 아침 수영" loading="lazy" decoding="async"></a><figcaption><b>와이키키 해변 — 아침 수영</b><small>© Pickle the cool · CC BY-SA 4.0</small></figcaption></figure><figure><a href="https://commons.wikimedia.org/wiki/File:Sunset_next_to_Waikiki_Beach,_Oahu,_Hawai,_USA1.jpg" target="_blank" rel="noopener"><img src="https://thumb.wikimedia.org/wikipedia/commons/thumb/8/85/Sunset_next_to_Waikiki_Beach%2C_Oahu%2C_Hawai%2C_USA1.jpg/960px-Sunset_next_to_Waikiki_Beach%2C_Oahu%2C_Hawai%2C_USA1.jpg?utm_source=commons.wikimedia.org&utm_campaign=imageinfo&utm_content=thumbnail" alt="와이키키 노을 — SKY Waikiki 저녁" loading="lazy" decoding="async"></a><figcaption><b>와이키키 노을 — SKY Waikiki 저녁</b><small>© Diego Delso · CC BY-SA 3.0</small></figcaption></figure></div><ol class="tl"><li><div class="t">08:00–08:45</div><div class="c"><div class="place">🏠 <strong>콘도 아침</strong> (5명)</div><div class="what">전날 H Mart 장본 걸로</div></div></li><li><div class="t">08:45–11:00</div><div class="c"><div class="place">🏊 <a href="https://www.google.com/maps/search/?api=1&query=Kuhio+Beach+Park+Honolulu" target="_blank" rel="noopener"><strong>와이키키 해변 수영</strong></a> (콘도 앞)</div><div class="what">아침 소나기는 10시면 거의 그쳐요 · 라이프가드 있는 구역에서 · <strong>트레일 팀은 10:40쯤 나와 샤워·운동화</strong> (11:15 출발) · 엄마·큰형은 더 놀아도 OK</div></div></li><li><div class="t">11:00</div><div class="c"><div class="place">📞 발렛에 차 요청</div><div class="what">11:15에 받기 · <strong>물 1인 1L · 모자 · 간식</strong> (아침 뒤 점심 전이라)</div><div class="park">🅿 발렛</div></div></li><li><div class="t">11:15</div><div class="c"><div class="place">출발 — 아빠·작은형·나 (차 10분)</div><div class="what">예약 시간(12:00) 전엔 입구에서 기다릴 수 있어요</div></div></li><li><div class="t">12:00–13:45</div><div class="c"><div class="place">🥾 <a href="https://www.google.com/maps/search/?api=1&query=Diamond+Head+State+Monument" target="_blank" rel="noopener"><strong>다이아몬드헤드</strong></a> ✅ <strong>예약 완료 (12:00 · 차량+3명)</strong></div><div class="what"><strong>QR 캡처</strong> · <strong>30분 넘게 늦으면 입장 불가</strong> · 왕복 약 1시간 30분, 마지막은 계단 · 한낮 27°C · 자외선 6 · 비 0% → <strong>물·모자</strong></div><div class="park">🅿 QR 주차 (<strong>2시간 — 14시 전 출차</strong>)</div></div></li><li><div class="t">14:00–</div><div class="c"><div class="place">🏠 <strong>콘도 — 늦은 점심 · 휴식 · 🧳 짐 싸기</strong></div><div class="what">점심은 가볍게 · <strong>짐은 오늘 싸 둬요</strong> (11/10은 PCC로 하루 종일, 11/11 08:30 출발) · 엄마·큰형은 오전 수영 뒤 계속 콘도</div><div class="park">🅿 발렛</div></div></li><li><div class="t">16:45</div><div class="c"><div class="place">콘도 출발 — 걸어서 7분 (우버 3분)</div><div class="what"><strong>4명 (아빠·엄마·큰형·나)</strong> · 작은형은 저녁 약속 · 젖은 수영복·비키니 차림은 입장 불가</div></div></li><li><div class="t">17:00–19:00</div><div class="c"><div class="place">🌅 <a href="https://www.google.com/maps/search/?api=1&query=SKY+Waikiki+2270+Kalakaua+Ave+Honolulu" target="_blank" rel="noopener"><strong>SKY Waikiki</strong></a> (2270 Kalākaua Ave · 와이키키 비즈니스 플라자 <strong>19층 옥상</strong> · 월 16–24시)</div><div class="what"><strong>노을 저녁</strong> — 🌅 일몰 17:51 · 다이아몬드헤드·바다·야경 · <strong>해피아워 16–18시</strong> (굴 $4 · 맥주 $5 · 스파클링 $10) · 🍴 <strong>Seafood Platter $120 (3~4인 · 굴 6·점보 새우 4·랍스터 꼬리·포케 2) + 추토로 $32 또는 킹연어 미소야키 $38 + 트러플 감자튀김 $18</strong> · 스테이크 원하면 안심 8oz $55 · 4명 약 $260~370 (세금·팁 포함) · ✅ <strong>예약 완료 — 17:00 · 4명</strong> (OpenTable · 노을 쪽 자리 요청 남김 · ☎ 808-900-4240)</div><div class="park">🅿 우버면 불필요</div></div></li><li><div class="t">19:15</div><div class="c"><div class="place">🏠 콘도 복귀 (걸어서 7분)</div></div></li></ol>
 <ul>
 <li>✅ <strong>다이아몬드헤드 예약 완료 (11/8)</strong> — <strong>11/9 (월) 12:00 입장 · 차량+3명 (아빠·작은형·나)</strong> · 엄마·큰형은 오전 수영 뒤 콘도에서 쉬기 · <strong>취소 정책 (공식 FAQ):</strong> 환불은 <strong>입장 3일 전까지</strong> ($5 취소 수수료) · 날짜 변경은 <strong>전날 자정까지</strong> 가능 · <strong>노쇼·지각(30분 초과)은 환불 없음</strong> — 당일 비 와도 환불 없으니 참고</li>
 <li>🔁 <strong>11/8 오후 변경 (가족 결정):</strong> 카일루아 수영·팔리 전망대는 뺌 — <strong>아침 와이키키 수영 → 다이아몬드헤드 → 콘도 휴식</strong> · 이번 여행 바다 수영은 11/8·11/9 아침 와이키키</li>
@@ -392,8 +392,9 @@ footer { max-width: 1100px; margin: 0 auto; padding: 0 16px 48px; color: var(--m
 </ul>
 </div></article><article class="day c3" data-date="11/11"><div class="day-head"><div class="date-badge"><b>11/11</b><span>수요일</span></div><div class="day-title"><h3 id="1111-수-출발-veterans-day-공휴일">출발 (Veterans Day 공휴일)</h3></div></div><div class="day-body">
 <p class="wx">⛅ 와이키키 ☔ 22% · 🌡 23~27°C · 💨 돌풍 17m (북동) — 아침 대체로 맑음 <em>(11/5 밤 갱신)</em></p>
-<figure class="routemap"><img src="maps/1111.webp?v=45d27a96e6" loading="lazy" width="1000" height="640" alt="11/11 지도"><figcaption><div class="rm-stops"><b>①</b> 비치타워 콘도 → <b>②</b> 렌터카 반납 → <b>③</b> 공항 T2</div><div class="rm-meta">🚗 하루 운전 약 30km · 막히지 않으면 약 49분 · 파란 선 = 차</div><div class="rm-links">🧭 구글 지도 길찾기 <a href="https://www.google.com/maps/dir/?api=1&amp;origin=Waikiki+Beach+Tower+2470+Kalakaua+Ave+Honolulu&amp;destination=Daniel+K.+Inouye+International+Airport+Terminal+2&amp;travelmode=driving&amp;waypoints=Honolulu+Airport+Consolidated+Rental+Car+Facility" target="_blank" rel="noopener">①→③</a></div></figcaption></figure><ol class="tl"><li><div class="t">06:15–06:50</div><div class="c"><div class="place">🏠 콘도에서 간단히 (남은 식재료 정리)</div><div class="what">아침 — 외식 ❌ · 기내 간식은 <strong>무스비 카페 이야스메</strong> (Kuhio Ave, 06:30~) 또는 Eggs 'n Things 포장 (06:00~ · 도보 1분)</div></div></li><li><div class="t">07:00</div><div class="c"><div class="place">발렛 출차 요청</div><div class="what">☕ Kai Coffee (하얏트, 도보 2분)</div></div></li><li><div class="t"><strong>07:30</strong></div><div class="c"><div class="place">콘도 출발 (공항까지 약 15km, 25~35분) → 주유</div><div class="what">반납 전 주유 (선불 주유 옵션이면 생략)</div></div></li><li><div class="t">08:00</div><div class="c"><div class="place"><strong>렌트카 반납</strong> — 위치는 예약 확인서 (공항 렌터카센터면 T2 길 건너, "Car rental returns") · 예약상 반납 17:00라 일찍 반납</div><div class="what">짐 내리고 터미널로</div></div></li><li><div class="t">08:20</div><div class="c"><div class="place">T2 대한항공 카운터</div><div class="what"><strong>출발 3시간 이상 전</strong> 도착 (11:40이든 12:05이든 커버) · 체크인 마감 = 출발 1시간 전 · 탑승 시작 = 35분 전</div></div></li></ol>
+<figure class="routemap"><img src="maps/1111.webp?v=1d1f41fbf4" loading="lazy" width="1000" height="640" alt="11/11 지도"><figcaption><div class="rm-stops"><b>①</b> 비치타워 콘도 → <b>②</b> 공항 T2 (가족 내리기) → <b>③</b> 렌터카 반납 (작은형)</div><div class="rm-meta">🚗 하루 운전 약 41km · 막히지 않으면 약 1시간 8분 · 파란 선 = 차</div><div class="rm-links">🧭 구글 지도 길찾기 <a href="https://www.google.com/maps/dir/?api=1&amp;origin=Waikiki+Beach+Tower+2470+Kalakaua+Ave+Honolulu&amp;destination=Honolulu+Airport+Consolidated+Rental+Car+Facility&amp;travelmode=driving&amp;waypoints=Daniel+K.+Inouye+International+Airport+Terminal+2" target="_blank" rel="noopener">①→③</a></div></figcaption></figure><ol class="tl"><li><div class="t"><strong>07:30</strong></div><div class="c"><div class="place">⏰ 기상</div></div></li><li><div class="t">07:30–08:15</div><div class="c"><div class="place">🏠 <strong>콘도에서 간단히</strong> (남은 식재료 정리) · 짐 마무리</div><div class="what">아침 — 외식 ❌ · 기내 간식은 <strong>무스비 카페 이야스메</strong> (Kuhio Ave, 06:30~ · 도보) 포장 · ☕ Kai Coffee (하얏트, 도보 2분)</div></div></li><li><div class="t">08:15</div><div class="c"><div class="place">발렛 출차 요청 · 콘도 열쇠 반납</div><div class="park">🅿 발렛</div></div></li><li><div class="t"><strong>08:30</strong></div><div class="c"><div class="place">콘도 출발 — 작은형 운전 (공항까지 약 15km, 25~35분 · 공휴일이라 덜 막힐 수 있어요)</div></div></li><li><div class="t"><strong>09:00</strong></div><div class="c"><div class="place">✈ <strong>T2 출발층 도착</strong> — 작은형 빼고 4명 <strong>짐 내리기</strong> → 대한항공 카운터</div><div class="what">출발 약 3시간 전 · 체크인 마감 = 출발 1시간 전 (11:05) · 탑승 시작 = 35분 전 (11:30)</div><div class="park">🅿 출발층은 짐 내리는 동안만 정차</div></div></li><li><div class="t">09:00~</div><div class="c"><div class="place">🚙 <strong>작은형 혼자 — 주유 → 렌트카 반납</strong></div><div class="what">반납 위치는 예약 확인서 (공항 렌터카센터면 T2 길 건너, "Car rental returns") · 반납 전 주유 (선불 주유 옵션이면 생략) · 예약상 반납 17:00까지 · 작은형은 비행이 더 늦어서 반납 뒤 본인 시간에 맞춰</div></div></li></ol>
 <ul>
+<li>🔁 <strong>11/9 변경:</strong> 07:30 기상 · <strong>08:30 출발 · 09:00 공항</strong> — 작은형이 가족을 T2에 내려 주고 혼자 렌트카 반납 (작은형 비행은 더 늦음)</li>
 <li>공휴일이어도 와이키키 일부 미터는 유료 → 현장 표지 우선</li>
 <li>Leonard's Bakery (05:30~)는 주차 6칸뿐이고 발렛 차를 따로 빼야 해서 이날은 비추천</li>
 </ul>
@@ -1258,7 +1259,7 @@ footer { max-width: 1100px; margin: 0 auto; padding: 0 16px 48px; color: var(--m
 - ★4.8 이상 대안은 '리뷰 쓰면 서비스' 여부를 검증해서 의심(⚠)이면 빼요 — 옐프 평점 차이 · 개업 시기 · 현지 글<br />
 - 그 대안이 현지 평가에서 "관광객용"이거나 호불호가 갈리고, 지금 장소에 <strong>지역 수상(Hale ʻAina 등)이나 현지인 추천</strong>이 있으면 그대로 둬요.<br />
 - <strong>마지막 만찬처럼 분위기가 목적인 끼니는 예외</strong>로 해요.</p>
-<p><strong>11/3 추가 변경:</strong> 비싼 저녁 3끼를 <strong>맥주집</strong>으로 바꿨어요 — 11/5 Yard House · 11/7 Maui Brewing 와이키키 · 11/9 Waikiki Brewing (모두 숙소에서 걸어가거나 택시 5분이라 운전자도 같이 마셔요) · <strong>11/4 현지 변경:</strong> 11/4 저녁 DECK.→마루가메 우동 · <strong>11/5 저녁 Yard House→Arancino di Mare · 11/6 저녁 Buzz's→Hau Tree(해변 나무 테라스) · 11/7 저녁 Maui Brewing→Suntory(일식)</strong> (하와이식 연속·맥주집 분위기 비선호) · <strong>11/8 저녁 Haleiwa Joe's</strong> (16:30 저녁 시작 + 노을, 와이메아 베이 일몰 대신) · <strong>11/5 밤 추가: 11/6 저녁 Hau Tree→🌮 Surf N Turf Tacos</strong> (48시간 내 취소·변경 수수료 $15/인 → 예약 리스크 없는 워크인으로) · <strong>11/6 확정: Surf N Turf→🍺 Yard House 19:00</strong> (테이크아웃 분위기 → 앉아서 먹는 곳으로) · <strong>11/6 오후: 투어는 15시쯤 복귀 → 이후는 추가 일정으로 재편 (11/7·11/9)</strong> · <strong>11/9 저녁 Waikiki Brewing→🐟 Nico's Pier 38</strong> (맥주집 비선호 + 시푸드 요청) · <strong>11/6 오후: 11/7 점심 Liliha→🍽 Makai Market 푸드코트</strong> (하와이안 메뉴 피로 — 각자 골라 먹기) · 정차지는 한 줄에 하나(블로홀 교훈) · 카페는 뷰 있는 곳으로 · <strong>11/6 밤: 11/7 전면 개편</strong> — <del>다이아몬드헤드</del>·KCC·미술관·알라모아나 취소 → ⛳ 와이켈레 골프 12:34 (큰형·나) + ⛪ 교회 10~14 (작은형·부모님) · 저녁 Suntory <strong>18:30 와쇼쿠 5명 예약 완료</strong> · <strong>11/7 밤: 실제 기록</strong> — 골프 12:34~17:30 완주 (복귀는 작은형 픽업 · 우버 편도 생략) · Suntory 19:30 도착, 단품 와슈규 샤브 $60/인 — <strong>와쇼쿠는 단품 주문 가능, 다음엔 AOI 코스($82·샤브 포함)</strong> · <strong>11/7 밤 ②: 조식 외식 전부 취소</strong> — 다들 아침은 콘도에서 (11/8 Duke's·11/9 Kaila·11/10 Heavenly 예약 안 함) · <strong>11/8 귀갓길 H Mart 카카아코 장보기 추가</strong> · 콘도 도보 아침 대안 조사: Lulu's ★4.4 (오션뷰)·Barefoot ★4.4·Kai Coffee ★4.4 · <strong>11/7 밤 ③: 11/8 스탑 다이어트</strong> — 그린 월드(커피는 숙소 근처 테이크아웃)·라니아케아·헤이아우 뺌, 돌→밸리→Giovanni's→할레이바 4곳만 (이후 타운도 ☔ 비 올 때만으로) · <strong>11/7 밤 ④: 점심을 밸리 앞으로</strong> — Giovanni's 10:50 이른 점심 → 밸리 12:00~14:30 (점심·저녁 간격 3시간 → 5시간) · <strong>11/7 밤 ⑤: 11/8·11/9 재편</strong> — 11/8 오후를 서해안으로 (Haleiwa Joe's·할레이바 타운 ❌ → 요코하마 일몰 직행 + Monkeypod 저녁 · 서쪽 비 0% · 마카하는 차창) · 11/9 = 못 간 곳 만회 — 🥾 다이아몬드헤드 재예약 · 🌊 할로나 블로홀 · Buzz's 점심 · 🏖 <strong>카일루아 비치 수영</strong> (가족 요청 — 첫 바다 수영) · 아일랜드 스노우 · 마노아 초콜릿 · Nico's 유지 · <strong>11/8 새벽 ⑥: 동선 최적화</strong> — 돌 30분 → 밸리 오전 하이킹 → 점심은 돌아 나오는 길 Giovanni's 12:50 (추가 거리 0 · 요코하마 15:15 도착으로 해변 여유 +40분) · <strong>11/8 새벽 ⑦: 3일 재배치</strong> — PCC 일·수 휴무·와이메아 밸리 월 휴무 확인 → <strong>11/8 서부</strong> (코올리나 라군 수영·Monkeypod 점심·요코하마 · 비 0%) · <strong>11/9 다이아몬드헤드·블로홀·카일루아 + 팔리 전망대</strong> · <strong>11/10 노스쇼어+PCC</strong> (와이메아 밸리 09:00 → Giovanni's 카후쿠 → PCC 12:15) · 돌 플랜테이션·쿠알로아·Seven Brothers 뺌, 뵤도인은 11/9 선택 · <strong>11/8 새벽 ⑧: 사용자 정정</strong> — 11/8은 원래 서부 계획(라군 산책·마카하·요코하마·Monkeypod) + H Mart만 (바다 수영은 원래 없었음) · 11/9 할로나 블로홀 뺌 → 팔리 하이웨이로 산 넘어갔다 산 넘어 오기 · 바다 수영은 11/9 카일루아 · <strong>11/8 오전 ⑨: 코올리나 라군 1 오전 수영 확정</strong> (샤워·화장실·Island Country Markets 확인) · ☕ 오션뷰 카페 Hokulea(포시즌스) 추가 · Monkeypod 링크가 와이키키점으로 잡히던 문제 수정 (주소·장소 ID로 고정) · <strong>⑩ 커피는 돌아오는 길로</strong> — Surf &amp; Sprout(와이아나에, 무료 주차) 포장 → 마우나 라히라히 비치 파크 · Hokulea는 발렛·유료 주차만이라 오후엔 비추천 · Michel's 카페 임시 휴업 · <strong>⑪ 11/8 핑크 필박스 오후 하이킹(15:20) 추가 · 바다 수영은 11/9 카일루아만</strong> — 오늘은 10:00 출발 → 라군 산책 → 점심 → 북쪽 끝 → 내려오며 커피·필박스 → H Mart 18:20 · 카에나 포인트 서쪽 트레일은 폐쇄(11/7 공지)라 제외 · <strong>⑫ 순서 변경:</strong> 라군 산책 뺌 → 07:45 출발, <strong>필박스를 선선한 아침(08:40)에 먼저</strong> → Surf &amp; Sprout 커피 → 요코하마 → 돌아오며 Monkeypod 점심 → H Mart → 15:05 콘도 · <strong>⑬ 아침 먹고 9시 출발</strong> — 필박스 09:55 · 늦은 점심 13:35 · 16:20 콘도 · <strong>⑭ 날씨 재조회(11/8 05시) · 날짜별 사진 교체</strong> (11/7 골프·샤브샤브 · 11/8 서부 · 11/9 다이아몬드헤드·팔리·카일루아 · 11/10 와이메아 밸리·Giovanni's·PCC) · <strong>⑮ Codex 검수 반영 (11/8 05시)</strong> — 서향 해안 파도 6~10피트(마른 모래 위에서만) · H-1 동쪽 15시까지 공사 · 필박스 1.5~2시간·엄마·큰형 공원에 먼저 내려드리기 · 물 1인 1.5~2L · 차량털이 대책 강화 · H Mart 1층 마트/2층 푸드코트 · Monkeypod 주차 할인은 미확인 · 일몰 17:52 · 비숍 박물관 주차 $10 · <strong>⑯ 전부 가되 현실 시간으로</strong> — 필박스 10:15~12:00 · 커피 12:35 · 요코하마 13:30 · 늦은 점심 14:45 · H Mart 17:00 · 18:00 콘도 · <strong>⑰ 11:30 출발 (11/8 오전)</strong> — 아침 와이키키 수영·각자 아침 · 필박스 12:45 · 커피 15:05 · 요코하마 16:00 · Monkeypod 이른 저녁 17:15 · H Mart 19:15 · 20:15 콘도 · <strong>⑱ 다이아몬드헤드 12:00 예약 (11/8)</strong> — 3명(아빠·작은형·나) · 콘도 이른 점심 → DH → 엄마·큰형 태워 팔리 → 카일루아 수영 15:00 → Nico's 17:50 · Buzz's 뺌 · <strong>⑲ 11/9 저녁 루아우 (11/8)</strong> — 씨라이프파크 알로하 카이 (불쇼 뷔페 17:00–20:15) · 카일루아 수영 16:05까지 · Nico's·아일랜드 스노우 뺌 · <strong>⑳ 11/9 다시 정리 (11/8 오후)</strong> — 08시 아침 → 11시까지 와이키키 수영 → 11시 다이아몬드헤드 → 콘도 휴식·짐 싸기 → 16시 루아우 출발 · 카일루아·팔리 뺌 · <strong>㉑ 루아우를 Ka Moana로 (11/8 오후)</strong> — 알로하 타워 · 차 15분 · Classic $129 · 17:00–19:45 · 씨라이프파크(35~40분)는 멀어서 뺌 · <strong>㉒ Classic 4명 (11/8)</strong> — 작은형 저녁 약속 · 하얏트 앞 16:35 셔틀 · <strong>㉓ 월요일 루아우 뺌 (11/8 오후)</strong> — 작은형도 불쇼를 보고 싶어 해서 11/10 PCC에서 같이 볼지 결정 중 · 월요일 저녁은 콘도 근처 · <strong>㉔ 11/10 오전 단순화 (11/8 오후)</strong> — 와이메아 밸리·Giovanni's 뺌 · 09:50 출발 → 세븐 브라더스 → PCC 12:15 · <strong>㉕ PCC 표는 Gateway Buffet Package 잠정 (11/8 밤)</strong> — 11/9 아침 가족 확인 후 예약 · <strong>PCC 무료 저녁 행사 $138.95 (11/30까지 연장 · 5명 약 $95 절약)</strong> · <strong>㉖ 11/9 저녁 SKY Waikiki (11/8 밤)</strong> — 19층 옥상 노을 · 17:00 · 4명 · 크루즈는 바람이 세서 뺌 · 발렛 11:00 요청 · 11:15 출발 · <strong>㉗ 11/10 가는 길 노스쇼어 드라이브 (11/8 밤)</strong> — 09:30 출발 · 오는 길은 동쪽 해안 최단 · <strong>㉘ 라니아케아 거북이 해변 20분 정차 (11/8 밤)</strong> — 09:15 출발 · 길 건너 공용 주차장 + 횡단보도 · <strong>㉙ 돌 플랜테이션 아이스크림 + 점심 Giovanni's 카후쿠 (11/9)</strong> — 08:45 출발 · 세븐 브라더스 뺌<br />
+<p><strong>11/3 추가 변경:</strong> 비싼 저녁 3끼를 <strong>맥주집</strong>으로 바꿨어요 — 11/5 Yard House · 11/7 Maui Brewing 와이키키 · 11/9 Waikiki Brewing (모두 숙소에서 걸어가거나 택시 5분이라 운전자도 같이 마셔요) · <strong>11/4 현지 변경:</strong> 11/4 저녁 DECK.→마루가메 우동 · <strong>11/5 저녁 Yard House→Arancino di Mare · 11/6 저녁 Buzz's→Hau Tree(해변 나무 테라스) · 11/7 저녁 Maui Brewing→Suntory(일식)</strong> (하와이식 연속·맥주집 분위기 비선호) · <strong>11/8 저녁 Haleiwa Joe's</strong> (16:30 저녁 시작 + 노을, 와이메아 베이 일몰 대신) · <strong>11/5 밤 추가: 11/6 저녁 Hau Tree→🌮 Surf N Turf Tacos</strong> (48시간 내 취소·변경 수수료 $15/인 → 예약 리스크 없는 워크인으로) · <strong>11/6 확정: Surf N Turf→🍺 Yard House 19:00</strong> (테이크아웃 분위기 → 앉아서 먹는 곳으로) · <strong>11/6 오후: 투어는 15시쯤 복귀 → 이후는 추가 일정으로 재편 (11/7·11/9)</strong> · <strong>11/9 저녁 Waikiki Brewing→🐟 Nico's Pier 38</strong> (맥주집 비선호 + 시푸드 요청) · <strong>11/6 오후: 11/7 점심 Liliha→🍽 Makai Market 푸드코트</strong> (하와이안 메뉴 피로 — 각자 골라 먹기) · 정차지는 한 줄에 하나(블로홀 교훈) · 카페는 뷰 있는 곳으로 · <strong>11/6 밤: 11/7 전면 개편</strong> — <del>다이아몬드헤드</del>·KCC·미술관·알라모아나 취소 → ⛳ 와이켈레 골프 12:34 (큰형·나) + ⛪ 교회 10~14 (작은형·부모님) · 저녁 Suntory <strong>18:30 와쇼쿠 5명 예약 완료</strong> · <strong>11/7 밤: 실제 기록</strong> — 골프 12:34~17:30 완주 (복귀는 작은형 픽업 · 우버 편도 생략) · Suntory 19:30 도착, 단품 와슈규 샤브 $60/인 — <strong>와쇼쿠는 단품 주문 가능, 다음엔 AOI 코스($82·샤브 포함)</strong> · <strong>11/7 밤 ②: 조식 외식 전부 취소</strong> — 다들 아침은 콘도에서 (11/8 Duke's·11/9 Kaila·11/10 Heavenly 예약 안 함) · <strong>11/8 귀갓길 H Mart 카카아코 장보기 추가</strong> · 콘도 도보 아침 대안 조사: Lulu's ★4.4 (오션뷰)·Barefoot ★4.4·Kai Coffee ★4.4 · <strong>11/7 밤 ③: 11/8 스탑 다이어트</strong> — 그린 월드(커피는 숙소 근처 테이크아웃)·라니아케아·헤이아우 뺌, 돌→밸리→Giovanni's→할레이바 4곳만 (이후 타운도 ☔ 비 올 때만으로) · <strong>11/7 밤 ④: 점심을 밸리 앞으로</strong> — Giovanni's 10:50 이른 점심 → 밸리 12:00~14:30 (점심·저녁 간격 3시간 → 5시간) · <strong>11/7 밤 ⑤: 11/8·11/9 재편</strong> — 11/8 오후를 서해안으로 (Haleiwa Joe's·할레이바 타운 ❌ → 요코하마 일몰 직행 + Monkeypod 저녁 · 서쪽 비 0% · 마카하는 차창) · 11/9 = 못 간 곳 만회 — 🥾 다이아몬드헤드 재예약 · 🌊 할로나 블로홀 · Buzz's 점심 · 🏖 <strong>카일루아 비치 수영</strong> (가족 요청 — 첫 바다 수영) · 아일랜드 스노우 · 마노아 초콜릿 · Nico's 유지 · <strong>11/8 새벽 ⑥: 동선 최적화</strong> — 돌 30분 → 밸리 오전 하이킹 → 점심은 돌아 나오는 길 Giovanni's 12:50 (추가 거리 0 · 요코하마 15:15 도착으로 해변 여유 +40분) · <strong>11/8 새벽 ⑦: 3일 재배치</strong> — PCC 일·수 휴무·와이메아 밸리 월 휴무 확인 → <strong>11/8 서부</strong> (코올리나 라군 수영·Monkeypod 점심·요코하마 · 비 0%) · <strong>11/9 다이아몬드헤드·블로홀·카일루아 + 팔리 전망대</strong> · <strong>11/10 노스쇼어+PCC</strong> (와이메아 밸리 09:00 → Giovanni's 카후쿠 → PCC 12:15) · 돌 플랜테이션·쿠알로아·Seven Brothers 뺌, 뵤도인은 11/9 선택 · <strong>11/8 새벽 ⑧: 사용자 정정</strong> — 11/8은 원래 서부 계획(라군 산책·마카하·요코하마·Monkeypod) + H Mart만 (바다 수영은 원래 없었음) · 11/9 할로나 블로홀 뺌 → 팔리 하이웨이로 산 넘어갔다 산 넘어 오기 · 바다 수영은 11/9 카일루아 · <strong>11/8 오전 ⑨: 코올리나 라군 1 오전 수영 확정</strong> (샤워·화장실·Island Country Markets 확인) · ☕ 오션뷰 카페 Hokulea(포시즌스) 추가 · Monkeypod 링크가 와이키키점으로 잡히던 문제 수정 (주소·장소 ID로 고정) · <strong>⑩ 커피는 돌아오는 길로</strong> — Surf &amp; Sprout(와이아나에, 무료 주차) 포장 → 마우나 라히라히 비치 파크 · Hokulea는 발렛·유료 주차만이라 오후엔 비추천 · Michel's 카페 임시 휴업 · <strong>⑪ 11/8 핑크 필박스 오후 하이킹(15:20) 추가 · 바다 수영은 11/9 카일루아만</strong> — 오늘은 10:00 출발 → 라군 산책 → 점심 → 북쪽 끝 → 내려오며 커피·필박스 → H Mart 18:20 · 카에나 포인트 서쪽 트레일은 폐쇄(11/7 공지)라 제외 · <strong>⑫ 순서 변경:</strong> 라군 산책 뺌 → 07:45 출발, <strong>필박스를 선선한 아침(08:40)에 먼저</strong> → Surf &amp; Sprout 커피 → 요코하마 → 돌아오며 Monkeypod 점심 → H Mart → 15:05 콘도 · <strong>⑬ 아침 먹고 9시 출발</strong> — 필박스 09:55 · 늦은 점심 13:35 · 16:20 콘도 · <strong>⑭ 날씨 재조회(11/8 05시) · 날짜별 사진 교체</strong> (11/7 골프·샤브샤브 · 11/8 서부 · 11/9 다이아몬드헤드·팔리·카일루아 · 11/10 와이메아 밸리·Giovanni's·PCC) · <strong>⑮ Codex 검수 반영 (11/8 05시)</strong> — 서향 해안 파도 6~10피트(마른 모래 위에서만) · H-1 동쪽 15시까지 공사 · 필박스 1.5~2시간·엄마·큰형 공원에 먼저 내려드리기 · 물 1인 1.5~2L · 차량털이 대책 강화 · H Mart 1층 마트/2층 푸드코트 · Monkeypod 주차 할인은 미확인 · 일몰 17:52 · 비숍 박물관 주차 $10 · <strong>⑯ 전부 가되 현실 시간으로</strong> — 필박스 10:15~12:00 · 커피 12:35 · 요코하마 13:30 · 늦은 점심 14:45 · H Mart 17:00 · 18:00 콘도 · <strong>⑰ 11:30 출발 (11/8 오전)</strong> — 아침 와이키키 수영·각자 아침 · 필박스 12:45 · 커피 15:05 · 요코하마 16:00 · Monkeypod 이른 저녁 17:15 · H Mart 19:15 · 20:15 콘도 · <strong>⑱ 다이아몬드헤드 12:00 예약 (11/8)</strong> — 3명(아빠·작은형·나) · 콘도 이른 점심 → DH → 엄마·큰형 태워 팔리 → 카일루아 수영 15:00 → Nico's 17:50 · Buzz's 뺌 · <strong>⑲ 11/9 저녁 루아우 (11/8)</strong> — 씨라이프파크 알로하 카이 (불쇼 뷔페 17:00–20:15) · 카일루아 수영 16:05까지 · Nico's·아일랜드 스노우 뺌 · <strong>⑳ 11/9 다시 정리 (11/8 오후)</strong> — 08시 아침 → 11시까지 와이키키 수영 → 11시 다이아몬드헤드 → 콘도 휴식·짐 싸기 → 16시 루아우 출발 · 카일루아·팔리 뺌 · <strong>㉑ 루아우를 Ka Moana로 (11/8 오후)</strong> — 알로하 타워 · 차 15분 · Classic $129 · 17:00–19:45 · 씨라이프파크(35~40분)는 멀어서 뺌 · <strong>㉒ Classic 4명 (11/8)</strong> — 작은형 저녁 약속 · 하얏트 앞 16:35 셔틀 · <strong>㉓ 월요일 루아우 뺌 (11/8 오후)</strong> — 작은형도 불쇼를 보고 싶어 해서 11/10 PCC에서 같이 볼지 결정 중 · 월요일 저녁은 콘도 근처 · <strong>㉔ 11/10 오전 단순화 (11/8 오후)</strong> — 와이메아 밸리·Giovanni's 뺌 · 09:50 출발 → 세븐 브라더스 → PCC 12:15 · <strong>㉕ PCC 표는 Gateway Buffet Package 잠정 (11/8 밤)</strong> — 11/9 아침 가족 확인 후 예약 · <strong>PCC 무료 저녁 행사 $138.95 (11/30까지 연장 · 5명 약 $95 절약)</strong> · <strong>㉖ 11/9 저녁 SKY Waikiki (11/8 밤)</strong> — 19층 옥상 노을 · 17:00 · 4명 · 크루즈는 바람이 세서 뺌 · 발렛 11:00 요청 · 11:15 출발 · <strong>㉗ 11/10 가는 길 노스쇼어 드라이브 (11/8 밤)</strong> — 09:30 출발 · 오는 길은 동쪽 해안 최단 · <strong>㉘ 라니아케아 거북이 해변 20분 정차 (11/8 밤)</strong> — 09:15 출발 · 길 건너 공용 주차장 + 횡단보도 · <strong>㉙ 돌 플랜테이션 아이스크림 + 점심 Giovanni's 카후쿠 (11/9)</strong> — 08:45 출발 · 세븐 브라더스 뺌 · <strong>㉚ 11/11 출발 늦춤 (11/9)</strong> — 07:30 기상 · 08:30 출발 · 09:00 공항 · 작은형이 내려 주고 렌트카 반납<br />
 <strong>결과:</strong> 식사 <strong>4끼를 바꿨어요</strong> — 11/4 저녁 DECK. · 11/5 저녁 Tommy Bahama · 11/8 아침 Duke's 조식 뷔페 · 11/10 아침 Heavenly. 기준에 걸린 나머지 3끼(11/4 점심 · 11/7 점심 · 11/9 아침)는 비교해 보고 그대로 뒀어요 <em>(11/7 점심은 이후 11/6에 푸드코트로 변경)</em>. 커피 4곳은 앞서 바꿨고, 트로피컬 팜스는 선택 정차로 더했어요.<br />
 숫자는 11/3에 <strong>구글 지도 API로 직접 받은 값</strong>이에요(리뷰 수 · ★평점). "리뷰 수 1위"는 사람이 가장 많이 갔다는 뜻이고 맛 순위는 아니에요.</p>
 </blockquote>
@@ -2531,8 +2532,8 @@ footer { max-width: 1100px; margin: 0 auto; padding: 0 16px 48px; color: var(--m
 · 🍽 게이트웨이 뷔페 16:30 → 🔥 HĀ 불쇼 19:15 → 🌙 22시 귀가 (최단 코스)
 
 11/11(수) 🛫 출발
-· 🏠 콘도 간단히 → 07:30 콘도 출발
-· 08:00 렌터카 반납 → 12:05 비행기
+· ⏰ 07:30 기상 → 🏠 콘도 간단히 → 08:30 콘도 출발
+· 09:00 공항 도착 (작은형이 내려 주고 렌터카 반납) → 12:05 비행기
 
 ✅ 남은 할 일
 · ✅ USS Arizona 10:45 예약 완료
@@ -2557,7 +2558,7 @@ footer { max-width: 1100px; margin: 0 auto; padding: 0 16px 48px; color: var(--m
 ☐ 대한항공 앱 — 서울팀 3명 모두 발권
 ☑ ESTA — 서울팀 3명 승인 확인 (11/3) · 출력 완료 · ⚠ ESTA에 등록된 여권(재발급본)을 들고 가기 — 재발급 전 옛 여권은 안 됨
 ☑ 메리어트 (아고다, 객실 2개 확정) — 문의 끝 (11/3): 주차는 미리 예약 필요 없음 · 2번 방 침대는 킹 1 + 소파베드뿐 (추가 침대 안 됨) · 조식은 방마다 2명 → 2번 방 1명은 추가 요금 · 체크인 때: 예약자 본인 여권 + 실물 카드 (보증금 승인), 셀프 주차 신청, 리조트피(1박 $59 + 세금) 현장 결제 · 프런트 ☎ 한국에서 001-1-808-922-6611 · 휴대폰 +1 808 922 6611
-☐ 에어비앤비 (11/7~11/11, 관리: 캡틴 쿡 리조트) — 관리 회사 질문 5개에 답장 (도착·출발 항공편, 렌트카, 연락처, 5명 영문 성명) · 잔금 결제 확인 · 호스트 메시지: 연락 방법(eSIM 데이터 전용이면 앱 메시지·왓츠앱) · 15시 전 짐 맡기기 · 11/11 07:30 출발 시 열쇠 반납 · 발렛은 호스트 답으로 확인 끝 (1대 무료 · 높이 6'2&quot; 이하 · 차량 사전 등록 필요 없음 · 머무는 동안만) · 입실 안내는 11/5 15:00(하와이)부터 앱에서
+☐ 에어비앤비 (11/7~11/11, 관리: 캡틴 쿡 리조트) — 관리 회사 질문 5개에 답장 (도착·출발 항공편, 렌트카, 연락처, 5명 영문 성명) · 잔금 결제 확인 · 호스트 메시지: 연락 방법(eSIM 데이터 전용이면 앱 메시지·왓츠앱) · 15시 전 짐 맡기기 · 11/11 08:30 출발 시 열쇠 반납 · 발렛은 호스트 답으로 확인 끝 (1대 무료 · 높이 6'2&quot; 이하 · 차량 사전 등록 필요 없음 · 머무는 동안만) · 입실 안내는 11/5 15:00(하와이)부터 앱에서
 ☐ 렌트카 (작은형 예약 · 7인승 SUV · 11/4 09:00 픽업) — ⚠ 충돌·도난 보장(CDW) 미포함 → 작은형 미국 자동차 보험·결제 카드가 렌트카를 보장하는지 확인, 안 되면 카운터에서 가입 · 반납 위치(예약 확인서) · 받는 차 높이 188cm(6'2&quot;) 이하 — 비치타워 발렛 제한 · 타호·서버밴·익스페디션 같은 풀사이즈 SUV(약 193cm)는 안 들어가니 업그레이드 거절 · 주유 방식 · 운전은 작은형만
 ☐ eSIM 3회선 설치 (아빠·엄마·나) — 부모님 폰 *#06# EID 확인
 ☐ 폰에 저장 — 예약 QR·바우처 (다이아몬드헤드·PCC·렌터카·숙소) 스크린샷 + 여권 사진
@@ -2593,7 +2594,7 @@ footer { max-width: 1100px; margin: 0 auto; padding: 0 16px 48px; color: var(--m
 ☐ 위탁 수하물 23kg 초과 주의 — 귀국 때 아울렛 쇼핑 짐도
 ☐ 액체류 100ml 이하·투명 지퍼백 (총 1L) · 보조배터리는 기내 가방에</pre></div></section>
 </main>
-<footer>업데이트 2026-11-10 05:47 KST · 영업시간·주차는 2026-11-02 웹 조사 + Codex 검수 기준입니다. (미확인) 항목은 방문 전날 구글맵·전화로 다시 확인하세요. 체크 표시는 이 기기에만 저장됩니다. 사진: Wikimedia Commons 자유 이용 사진 — 사진을 누르면 저작자·라이선스 원문으로 이동합니다.</footer>
+<footer>업데이트 2026-11-10 17:25 KST · 영업시간·주차는 2026-11-02 웹 조사 + Codex 검수 기준입니다. (미확인) 항목은 방문 전날 구글맵·전화로 다시 확인하세요. 체크 표시는 이 기기에만 저장됩니다. 사진: Wikimedia Commons 자유 이용 사진 — 사진을 누르면 저작자·라이선스 원문으로 이동합니다.</footer>
 <button class="top-btn" id="topBtn" aria-label="맨 위로">↑</button>
 <script>
 (function () {
